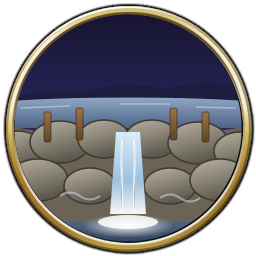
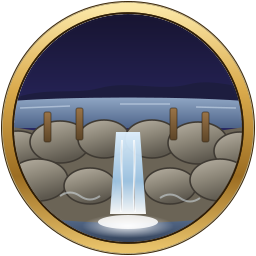
Version 2.0.1
Build icons: each age's Dam now sits in a fuller gold ring, drawn by
icons/src/build-icon.py to match the icons of the other Tower mods.
No gameplay change.

Changed region(s): [[0.0, 0.0, 1.0, 1.0]]

diff --git a/ui/dams.js b/ui/dams.js
@@ -26,7 +26,7 @@
 const TAG = "[Dams]";
 const G = globalThis;
 const KEY = "__dams";
-const VERSION = "2.0.0";
+const VERSION = "2.0.1";
 const DAM_TYPES = ["BUILDING_DAM_ANTIQUITY", "BUILDING_DAM_EXPLORATION", "BUILDING_DAM_MODERN"];
 /** The Levee each Dam raises, by the Dam's tier (its index in DAM_TYPES plus one). A higher tier holds more floods. */
 const LEVEES = [null, "BUILDING_DAM_LEVEE", "BUILDING_DAM_LEVEE_EXPLORATION", "BUILDING_DAM_LEVEE_MODERN"];

diff --git a/icons/src/build-icon.py b/icons/src/build-icon.py
@@ -1,48 +1,61 @@
 #!/usr/bin/env python3
-"""Build the three per-age build icons at 256, 128 and 64 px, each rendered inside the base game's gold ring.
+"""Build the three per-age build icons at 256, 128 and 64 px: the age's dam art inside a gold ring.
 
-The ring is lifted from the shipped buildicon_modbridge texture (decoded with tools/civ7_blp_inspect.py) so the
-Dam matches the rest of the build menu. Pixels at radius >= RING_IN come from the base icon; inside it, the SVG
-art; a one-pixel band blends the two. Needs rsvg-convert and Pillow.
+Both parts are drawn here from the mod's own vector art: dam-<age>.svg for the scene, and ring.svg (written by this
+script) for the frame, a gold band in the style of the game's build icons. No game file is read. The art is kept
+inside radius RING_IN and the ring is laid over it. Needs rsvg-convert and Pillow.
 
     python3 icons/src/build-icon.py            # from the mod root
 
-Writes icons/dam_<age>.png plus _128 and _64, for age in ancient, medieval, modern.
+Writes icons/src/ring.svg and icons/dam_<age>.png plus _128 and _64, for age in ancient, medieval, modern.
 """
-import math
 import os
 import subprocess
-import sys
 import tempfile
 
-from PIL import Image
+from PIL import Image, ImageChops, ImageDraw
 
 HERE = os.path.dirname(os.path.abspath(__file__))
 MOD = os.path.dirname(os.path.dirname(HERE))
-TOOLS = os.path.normpath(os.path.join(MOD, "..", "..", "tools"))
-INSTALL = os.path.expanduser(
-    "~/Library/Application Support/Steam/steamapps/common/Sid Meier's Civilization VII/"
-    "CivilizationVII.app/Contents/Resources/DLC/boot-shell/Platforms/Mac/BLPs/SHARED_DATA"
-)
-RING_TEXTURE = "TEXTURE_buildicon_modbridge"
-RING_IN = 113.5  # measured: the ring's dark inner edge starts at r = 114 on the 256 px icon
 SIZE = 256
-
-
+C = SIZE / 2
+RING_IN = 114  # the art's disc; the ring covers 114 to 127
 AGES = ("ancient", "medieval", "modern")
 
+# Dark backing, gold band, a thin dark line where the band meets the art, and a pale outer rim.
+RING_SVG = f"""<svg xmlns="http://www.w3.org/2000/svg" width="{SIZE}" height="{SIZE}" viewBox="0 0 {SIZE} {SIZE}">
+  <defs>
+    <linearGradient id="gold" x1="0" y1="0" x2="0" y2="1">
+      <stop offset="0" stop-color="#fbe7a6"/><stop offset="0.35" stop-color="#d9a94b"/>
+      <stop offset="0.7" stop-color="#9c6d22"/><stop offset="1" stop-color="#e8c26a"/>
+    </linearGradient>
+  </defs>
+  <circle cx="{C}" cy="{C}" r="120.5" fill="none" stroke="#3a2608" stroke-width="13"/>
+  <circle cx="{C}" cy="{C}" r="120.5" fill="none" stroke="url(#gold)" stroke-width="9.5"/>
+  <circle cx="{C}" cy="{C}" r="115" fill="none" stroke="#2b1a05" stroke-width="1.6" opacity="0.8"/>
+  <circle cx="{C}" cy="{C}" r="125.6" fill="none" stroke="#fff3c4" stroke-width="0.9" opacity="0.65"/>
+</svg>
+"""
 
-def compose(ring, art, out):
-    """Art inside, ring outside, one pixel of blend between them."""
-    result = Image.new("RGBA", (SIZE, SIZE))
-    rp, ap, op = ring.load(), art.load(), result.load()
-    c = (SIZE - 1) / 2
-    for y in range(SIZE):
-        for x in range(SIZE):
-            r = math.hypot(x - c, y - c)
-            t = min(1.0, max(0.0, r - (RING_IN - 0.5)))  # 0 = art, 1 = ring
-            a, b = ap[x, y], rp[x, y]
-            op[x, y] = tuple(round(a[i] * (1 - t) + b[i] * t) for i in range(4))
+
+def render(svg, out):
+    subprocess.run(["rsvg-convert", "-w", str(SIZE), "-h", str(SIZE), svg, "-o", out], check=True)
+    return Image.open(out).convert("RGBA")
+
+
+def disc_mask():
+    """An antialiased disc of radius RING_IN, drawn at 4x and reduced."""
+    big = Image.new("L", (SIZE * 4, SIZE * 4), 0)
+    r = RING_IN * 4
+    ImageDraw.Draw(big).ellipse((C * 4 - r, C * 4 - r, C * 4 + r, C * 4 + r), fill=255)
+    return big.resize((SIZE, SIZE), Image.LANCZOS)
+
+
+def compose(ring, art, mask, out):
+    """The art inside the disc, the ring over it."""
+    inside = art.copy()
+    inside.putalpha(ImageChops.multiply(art.getchannel("A"), mask))
+    result = Image.alpha_composite(inside, ring)
     result.save(out)
     print(f"wrote {out}")
     for size in (128, 64):
@@ -52,22 +65,15 @@ def compose(ring, art, out):
 
 
 def main():
+    ring_svg = os.path.join(HERE, "ring.svg")
+    with open(ring_svg, "w", encoding="utf-8") as f:
+        f.write(RING_SVG)
+    mask = disc_mask()
     with tempfile.TemporaryDirectory() as tmp:
-        ring_png = os.path.join(tmp, "ring.png")
-        subprocess.run(
-            [sys.executable, os.path.join(TOOLS, "civ7_blp_inspect.py"), os.path.join(INSTALL, RING_TEXTURE),
-             "--decode", ring_png],
-            check=True, stdout=subprocess.DEVNULL,
-        )
-        ring = Image.open(ring_png).convert("RGBA")
+        ring = render(ring_svg, os.path.join(tmp, "ring.png"))
         for age in AGES:
-            art_png = os.path.join(tmp, f"{age}.png")
-            subprocess.run(
-                ["rsvg-convert", "-w", str(SIZE), "-h", str(SIZE), os.path.join(HERE, f"dam-{age}.svg"),
-                 "-o", art_png],
-                check=True,
-            )
-            compose(ring, Image.open(art_png).convert("RGBA"), os.path.join(MOD, "icons", f"dam_{age}.png"))
+            art = render(os.path.join(HERE, f"dam-{age}.svg"), os.path.join(tmp, f"{age}.png"))
+            compose(ring, art, mask, os.path.join(MOD, "icons", f"dam_{age}.png"))
 
 
 if __name__ == "__main__":

diff --git a/docs/DESIGN.md b/docs/DESIGN.md
@@ -180,8 +180,8 @@ not spammed by the AI.
   interface: see the engine-closed entry on captures for the recipe and the zoom values. A Dam placed through the
   production screen lands wherever the settlement happens to own river, which on a young capital is the urban core,
   so the gallery probe chooses an open tile and buys it instead.
-- **Build-menu icon.** `icons/dam.png` (256 x 256), drawn in `icons/src/dam-icon.svg` and set inside the base game's
-  gold ring by `icons/src/build-icon.py`; imported by the modinfo (`ImportFiles`) and bound by `data/dams-icons.xml`
+- **Build-menu icon.** `icons/dam.png` (256 x 256), drawn in `icons/src/dam-icon.svg` and set inside a gold ring
+  that `icons/src/build-icon.py` draws itself; imported by the modinfo (`ImportFiles`) and bound by `data/dams-icons.xml`
   (`UpdateIcons`). `UI.getIconURL("BUILDING_DAM_ANTIQUITY")` returns `fs://game/tower-dams/icons/dam.png` (`d4`).
 
 ## The silt cannot be taken away

diff --git a/CHANGELOG.md b/CHANGELOG.md
@@ -3,6 +3,11 @@
 All notable changes to Dams are documented here. This project follows semantic versioning. The probes and harness
 runs live in `devtools/`, outside the shipped files.
 
+## [2.0.1] - 2026-10-04
+
+- Build icons: each age's Dam now sits in a fuller gold ring, drawn to match the icons of the other Tower mods. No
+  gameplay change; saves from 2.0.0 load as before.
+
 ## [2.0.0] - 2026-10-01
 
 - Single player and multiplayer play by the same rules, all of them in the game's data. In 1.3.0 a Dam needed a

diff --git a/README.md b/README.md
@@ -147,4 +147,4 @@ pillaged, and the Medieval Dam's tech in a game that reaches Machinery.
 
 ## Credits
 
-By Tower. The build icon uses the ring of the base game's bridge icon.
+By Tower.
